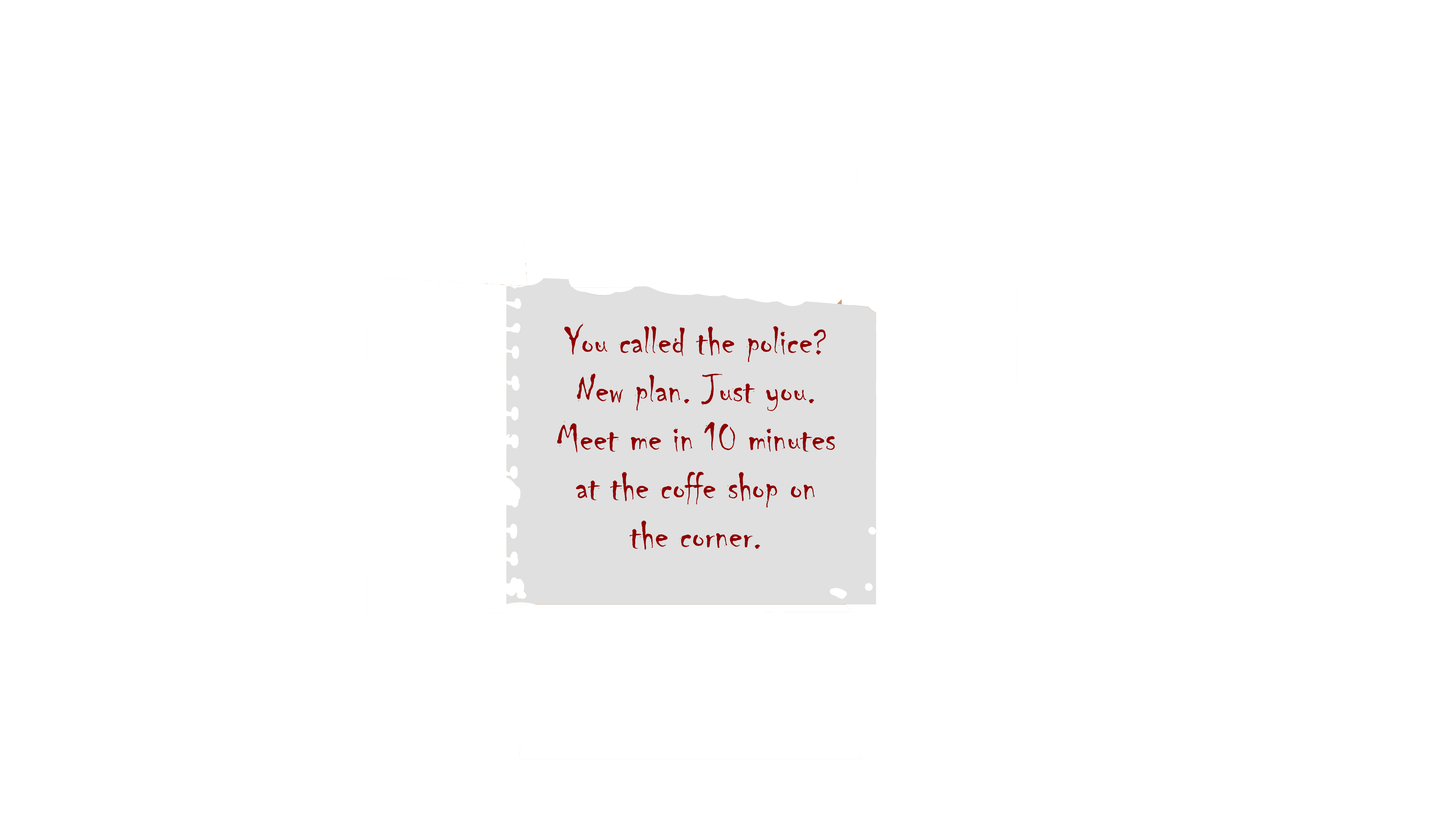
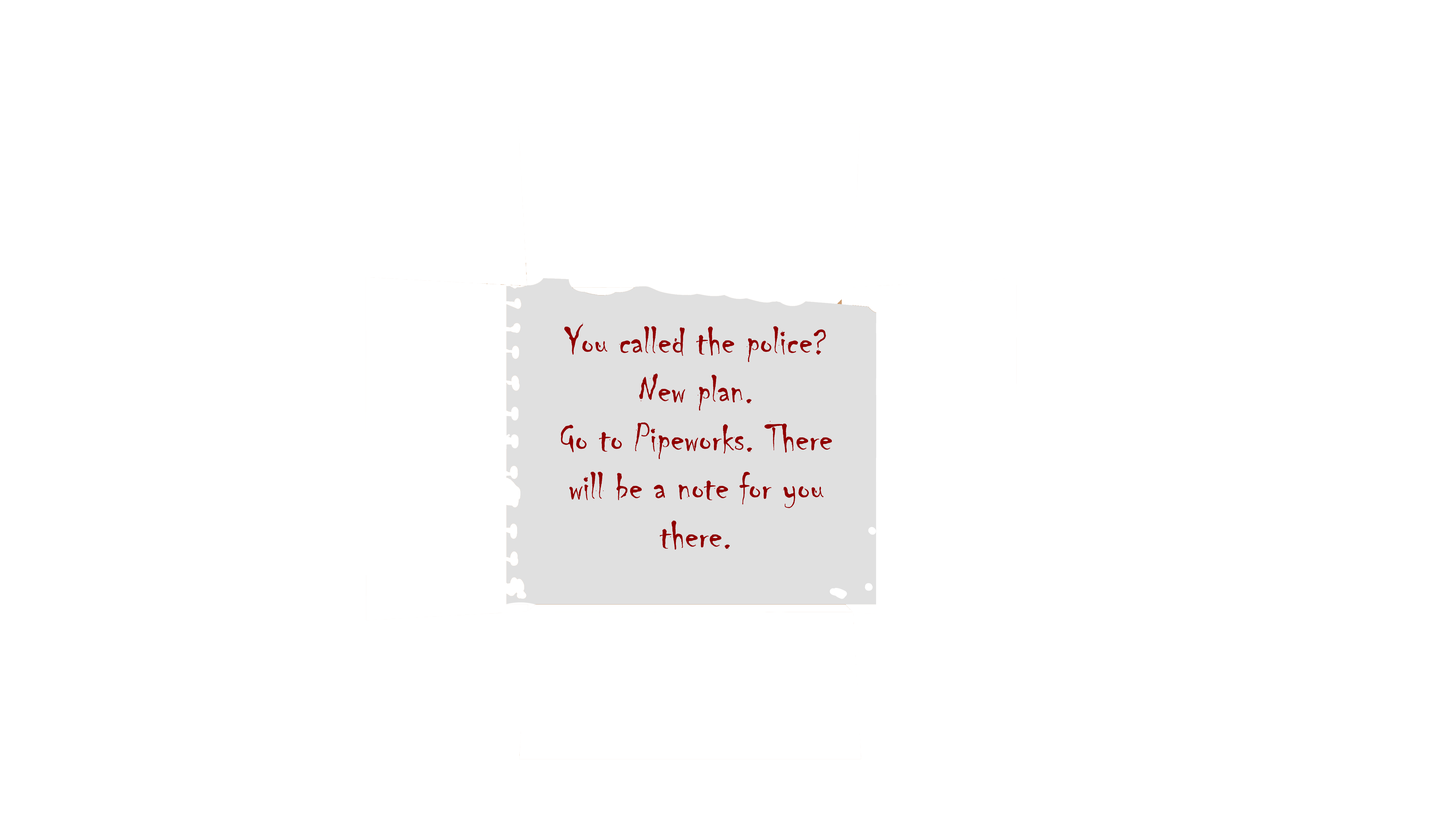
Pipeworks

Changed region(s): [[0.3734, 0.4688, 0.5911, 0.6875]]

diff --git a/portfolio.js b/portfolio.js
@@ -1,1 +1,1 @@
-var storyContent = {"inkVersion":20,"root":[["ev",0,"/ev",{"temp=":"closeDoors"},"ev",false,"/ev",{"temp=":"lookedRight"},"ev",false,"/ev",{"temp=":"noteRead"},"ev",false,"/ev",{"temp=":"calledCops"},"ev",0,"/ev",{"temp=":"collectedNotes"},"ev",false,"/ev",{"temp=":"yelled"},"ev",false,"/ev",{"temp=":"chased"},"ev",false,"/ev",{"temp=":"beginConvo"},"^Would you like to play a game?","\n","ev","str","^Yes","/str","/ev",{"*":"0.c-0","flg":20},["ev",{"^->":"0.40.$r1"},{"temp=":"$r"},"str",{"->":".^.s"},[{"#n":"$r1"}],"/str","/ev",{"*":"0.c-1","flg":18},{"s":["^<a href=\"/ResumeCurrent.html\">No</a>",{"->":"$r","var":true},null]}],{"c-0":[{"->":"BeginGame"},"\n",{"->":"0.g-0"},{"#f":5}],"c-1":["ev",{"^->":"0.c-1.$r2"},"/ev",{"temp=":"$r"},{"->":"0.40.s"},[{"#n":"$r2"}],"\n","done",{"->":"0.g-0"},{"#f":5}],"g-0":["done",{"#f":5}]}],"done",{"BeginGame":[[{"#":"CLEAR"},{"#":"IMAGE: Images/Door.png"},"^Knock Knock Knock....","\n","ev",{"VAR?":"closeDoors"},2,"<","/ev",[{"->":".^.b","c":true},{"b":["\n","ev","str","^Open Door","/str","/ev",{"*":".^.c-0","flg":4},{"->":".^.^.^.10"},{"c-0":["^ ",{"->":"OpenDoor"},"\n",{"#f":5}]}]}],"nop","\n","ev",{"VAR?":"closeDoors"},1,">","/ev",[{"->":".^.b","c":true},{"b":["\n","ev","str","^Open Door","/str","/ev",{"*":".^.c-0","flg":4},"ev","str","^Call police","/str","/ev",{"*":".^.c-1","flg":4},{"->":".^.^.^.18"},{"c-0":["^ ",{"->":"OpenDoor"},"\n",{"#f":5}],"c-1":[{"->":"CallPolice"},"\n",{"#f":5}]}]}],"nop","\n","ev","str","^<a href=\"/ResumeCurrent.html\">Nevermind, I don't want to play</a>","/str","/ev",{"*":".^.c-0","flg":4},{"c-0":["\n","done",{"#f":5}]}],{"#f":1}],"OpenDoor":[[{"#":"CLEAR"},{"#":"IMAGE: Images/OpenDoor.png"},"^What could that be?","\n","ev","str","^Pick up the box","/str","/ev",{"*":".^.c-0","flg":20},"ev","str","^Close the door","/str","/ev",{"*":".^.c-1","flg":20},"ev","str","^Peek outside to see who left it","/str","/ev",{"*":".^.c-2","flg":20},{"c-0":[{"->":"PickUpBox"},"\n",{"#f":5}],"c-1":[{"->":"CloseDoorAgain"},"\n",{"#f":5}],"c-2":[{"->":"PeekOutside"},"\n",{"#f":5}]}],{"#f":1}],"PickUpBox":[[{"#":"CLEAR"},{"#":"IMAGE: Images/openbox.png"},"^What a big box for such a small note...","\n","ev","str","^Read note","/str","/ev",{"*":".^.c-0","flg":20},"ev","str","^Put box down and go back inside","/str","/ev",{"*":".^.c-1","flg":20},{"c-0":[{"->":"ReadNote"},"\n",{"#f":5}],"c-1":[{"->":"Inside"},"\n",{"#f":5}]}],{"#f":1}],"CloseDoorAgain":[[{"#":"CLEAR"},{"#":"IMAGE: Images/CloseDoor.gif"},"ev",{"VAR?":"closeDoors"},1,"+",{"VAR=":"closeDoors","re":true},"/ev","^Not today...","\n","ev","str","^Go back inside","/str","/ev",{"*":".^.c-0","flg":20},"ev","str","^Call police to report suspicious package","/str","/ev",{"*":".^.c-1","flg":4},{"c-0":[{"->":"BeginGame"},"\n",{"#f":5}],"c-1":[{"->":"CallPolice"},"\n","done",{"#f":5}]}],{"#f":1}],"PeekOutside":[[{"#":"CLEAR"},{"#":"IMAGE: Images/OpenDoor.png"},"ev","str","^Look left","/str","/ev",{"*":".^.c-0","flg":20},"ev","str","^Look right","/str","/ev",{"*":".^.c-1","flg":20},{"c-0":[{"->":"Left"},"\n",{"#f":5}],"c-1":[{"->":"Right"},"\n",{"#f":5}]}],{"#f":1}],"ReadNote":[[{"#":"CLEAR"},"ev",{"VAR?":"collectedNotes"},0,"==",{"VAR?":"noteRead"},false,"==","&&","/ev",[{"->":".^.b","c":true},{"b":["\n",{"#":"IMAGE: Images/Note.png"},"^Creepy.","\n","ev",{"VAR?":"collectedNotes"},1,"+",{"VAR=":"collectedNotes","re":true},"/ev","ev","str","^Go back inside","/str","/ev",{"*":".^.c-0","flg":20},{"->":".^.^.^.11"},{"c-0":["\n","ev",true,"/ev",{"VAR=":"noteRead","re":true},{"->":"Inside"},{"#f":5}]}]}],"nop","\n","ev",{"VAR?":"collectedNotes"},1,"==",{"VAR?":"noteRead"},true,"==","&&","/ev",[{"->":".^.b","c":true},{"b":["\n",{"#":"IMAGE: Images/NoteAfterCops.png"},"^Great. Another place to go.","\n","ev","str","^Head to location","/str","/ev",{"*":".^.c-0","flg":20},{"->":".^.^.^.23"},{"c-0":[{"->":"GoToNewLocation"},"\n",{"#f":5}]}]}],"nop","\n","ev","str","^<a href=\"/ResumeCurrent.html\">Nevermind, I don't want to play</a>","/str","/ev",{"*":".^.c-0","flg":4},{"c-0":["\n","done",{"#f":5}]}],{"#f":1}],"Left":[[{"#":"CLEAR"},{"#":"IMAGE: Images/LeftLookFirst.gif"},"ev","str","^Look Right","/str","/ev",{"*":".^.c-0","flg":20},"ev","str","^Pick up package","/str","/ev",{"*":".^.c-1","flg":20},"ev","str","^Go inside and close the door","/str","/ev",{"*":".^.c-2","flg":20},{"c-0":[{"->":"Right"},"\n",{"#f":5}],"c-1":[{"->":"PickUpBox"},"\n",{"#f":5}],"c-2":[{"->":"Inside"},"\n",{"#f":5}]}],{"#f":1}],"Right":[[{"#":"CLEAR"},{"#":"IMAGE: Images/RightLookFirst.gif"},"^Who's that?","\n","ev","str","^Chase suspicious person","/str","/ev",{"*":".^.c-0","flg":20},"ev","str","^Pick up package","/str","/ev",{"*":".^.c-1","flg":20},"ev","str","^Go back inside","/str","/ev",{"*":".^.c-2","flg":20},{"c-0":[{"->":"Stairwell"},"\n",{"#f":5}],"c-1":[{"->":"PickUpBox"},"\n",{"#f":5}],"c-2":[{"->":"Inside"},"\n",{"#f":5}]}],{"#f":1}],"CallPolice":[[{"#":"CLEAR"},{"#":"IMAGE: Images/callpolice.png"},"^Hello, I'd like to report a suspicious package...","\n","ev",{"VAR?":"lookedRight"},true,"==","/ev",[{"->":".^.b","c":true},{"b":["\n","ev","str","^Describe suspicious person","/str","/ev",{"*":".^.c-0","flg":20},{"->":".^.^.^.10"},{"c-0":["^ ",{"->":"PoliceVisit"},"\n",{"#f":5}]}]}],"nop","\n","ev",{"VAR?":"lookedRight"},false,"==","/ev",[{"->":".^.b","c":true},{"b":["\n","ev","str","^Report suspicious package","/str","/ev",{"*":".^.c-0","flg":20},{"->":".^.^.^.18"},{"c-0":[{"->":"PoliceVisit"},"\n",{"#f":5}]}]}],"nop","\n","ev","str","^Nevermind. Open package","/str","/ev",{"*":".^.c-0","flg":4},{"c-0":["^ ",{"->":"PickUpBox"},"\n",{"#f":5}]}],{"#f":1}],"Inside":[{"#":"CLEAR"},{"#":"IMAGE: Images/LivingRoom.png"},"ev",{"VAR?":"noteRead"},false,"==","/ev",[{"->":".^.b","c":true},{"b":["\n","ev","str","^Call police","/str","/ev",{"*":".^.c-0","flg":4},"ev","str","^Nevermind. Open package","/str","/ev",{"*":".^.c-1","flg":4},"ev","str","^ <a href=\"/ResumeCurrent.html\">I don't want to play this game</a>","/str","/ev",{"*":".^.c-2","flg":20},{"->":"Inside.8"},{"c-0":[{"->":"CallPolice"},"\n",{"#f":5}],"c-1":["^ ",{"->":"PickUpBox"},"\n",{"#f":5}],"c-2":["done","\n",{"#f":5}]}]}],"nop","\n","ev",{"VAR?":"noteRead"},true,"==","/ev",[{"->":".^.b","c":true},{"b":["\n","ev","str","^Call police","/str","/ev",{"*":".^.c-0","flg":4},"ev","str","^Head outside to meet behind the building","/str","/ev",{"*":".^.c-1","flg":20},"ev","str","^ <a href=\"/ResumeCurrent.html\">I don't want to play this game</a>","/str","/ev",{"*":".^.c-2","flg":20},{"->":"Inside.16"},{"c-0":[{"->":"CallPolice"},"\n",{"#f":5}],"c-1":[{"->":"MeetUp"},"\n",{"#f":5}],"c-2":["done","\n",{"#f":5}]}]}],"nop","\n","done",{"#f":1}],"Stairwell":["ev",{"VAR?":"yelled"},false,"==",{"VAR?":"chased"},false,"==","&&","/ev",[{"->":".^.b","c":true},{"b":["\n",{"#":"CLEAR"},{"#":"IMAGE: Images/Stairwell.png"},"ev","str","^Yell \"Hey!\"","/str","/ev",{"*":".^.c-0","flg":20},"ev","str","^Run after suspicious person","/str","/ev",{"*":".^.c-1","flg":20},"ev","str","^Go back inside","/str","/ev",{"*":".^.c-2","flg":20},{"->":".^.^.^.10"},{"c-0":["\n","^The person doesn't turn around and continues to run down the stairs.","\n","ev",true,"/ev",{"VAR=":"yelled","re":true},{"->":".^.^.^.^"},{"#f":5}],"c-1":["\n","^You take off down the stairs, but the person runs faster than you. They run out the door into the alley. The door slams behind them. You'll never catch them.","\n","ev",true,"/ev",{"VAR=":"chased","re":true},{"->":".^.^.^.^"},{"#f":5}],"c-2":[{"->":"Inside"},"\n",{"#f":5}]}]}],"nop","\n","ev",{"VAR?":"yelled"},true,"==",{"VAR?":"chased"},false,"==","&&","/ev",[{"->":".^.b","c":true},{"b":["\n",{"#":"IMAGE: Images/Stairwell2.png"},"ev","str","^Run after suspicious person","/str","/ev",{"*":".^.c-0","flg":20},"ev","str","^Go back inside","/str","/ev",{"*":".^.c-1","flg":20},{"->":".^.^.^.22"},{"c-0":["\n","^You take off down the stairs, but the person runs faster than you. They run out the door into the alley. The door slams behind them. You'll never catch them.","\n","ev",true,"/ev",{"VAR=":"chased","re":true},{"->":".^.^.^.^"},{"#f":5}],"c-1":[{"->":"Inside"},"\n",{"#f":5}]}]}],"nop","\n","ev",{"VAR?":"yelled"},false,"==",{"VAR?":"chased"},true,"==","&&","/ev",[{"->":".^.b","c":true},{"b":["\n",{"#":"IMAGE: Images/Stairwell3.png"},"ev","str","^Yell \"Hey!\"","/str","/ev",{"*":".^.c-0","flg":20},"ev","str","^Go back inside","/str","/ev",{"*":".^.c-1","flg":20},{"->":".^.^.^.34"},{"c-0":["\n","^The person doesn't turn around and continues to run down the stairs.","\n","ev",true,"/ev",{"VAR=":"yelled","re":true},{"->":".^.^.^.^"},{"#f":5}],"c-1":[{"->":"Inside"},"\n",{"#f":5}]}]}],"nop","\n","ev",{"VAR?":"yelled"},true,"==",{"VAR?":"chased"},true,"==","&&","/ev",[{"->":".^.b","c":true},{"b":["\n",{"#":"CLEAR"},{"#":"IMAGE: Images/Stairwell3.png"},"ev","str","^Go back inside","/str","/ev",{"*":".^.c-0","flg":20},{"->":".^.^.^.46"},{"c-0":[{"->":"Inside"},"\n",{"#f":5}]}]}],"nop","\n",{"#f":1}],"PoliceVisit":[{"#":"CLEAR"},{"#":"IMAGE: Images/PoliceVisit.png"},"ev",true,"/ev",{"VAR=":"calledCops","re":true},"ev",{"VAR?":"lookedRight"},"/ev",[{"->":".^.b","c":true},{"b":["\n","ev","str","^Tell the policeman about the suspicious person running towards the stairwell","/str","/ev",{"*":".^.c-0","flg":20},{"->":".^.^.^.10"},{"c-0":["^ ",{"->":"BombSquad"},"\n",{"#f":5}]}]}],"nop","\n","ev",{"VAR?":"lookedRight"},false,"==","/ev",[{"->":".^.b","c":true},{"b":["\n","ev","str","^Discuss the suspicious package","/str","/ev",{"*":".^.c-0","flg":20},{"->":".^.^.^.18"},{"c-0":[{"->":"BombSquad"},"\n",{"#f":5}]}]}],"nop","\n",{"#f":1}],"BombSquad":[[{"#":"CLEAR"},{"#":"IMAGE: Images/BombSquad.png"},"^All clear. The package is safe.","\n","ev","str","^Pick up package","/str","/ev",{"*":".^.c-0","flg":20},"ev","str","^Throw package away","/str","/ev",{"*":".^.c-1","flg":20},{"c-0":[{"->":"PickUpBox"},"\n",{"#f":5}],"c-1":[{"->":"Inside"},"\n","ev",{"VAR?":"closeDoors"},1,"+",{"VAR=":"closeDoors","re":true},"/ev",{"->":"BeginGame"},{"#f":5}]}],{"#f":1}],"MeetUp":[{"#":"CLEAR"},"ev",{"VAR?":"calledCops"},"/ev",[{"->":".^.b","c":true},{"b":["\n",{"#":"IMAGE: Images/Alley.png"},"^There's a note across from the dumpster.","\n","ev","str","^Pick it up","/str","/ev",{"*":".^.c-0","flg":20},"ev","str","^Go back home","/str","/ev",{"*":".^.c-1","flg":20},{"->":"MeetUp.5"},{"c-0":[{"->":"ReadNote"},"\n",{"#f":5}],"c-1":[{"->":"Inside"},"\n",{"#f":5}]}]}],"nop","\n","ev",{"VAR?":"calledCops"},false,"==","/ev",[{"->":".^.b","c":true},{"b":["\n",{"#":"IMAGE: Images/hoodedfigurealley.png"},"^A strange person in a hoodie approaches.","\n","ev","str","^Ask person if they left the package","/str","/ev",{"*":".^.c-0","flg":20},"ev","str","^They look shady. Retreat back home.","/str","/ev",{"*":".^.c-1","flg":20},{"->":"MeetUp.13"},{"c-0":["\n","^Yes. ",{"->":"HoodedConvo"},"\n",{"#f":5}],"c-1":[{"->":"Inside"},"\n",{"#f":5}]}]}],"nop","\n",{"#f":1}],"HoodedConvo":["ev",{"VAR?":"beginConvo"},false,"==","/ev",[{"->":".^.b","c":true},{"b":["\n",{"#":"CLEAR"},{"#":"IMAGE: Images/hoodedfigurealley.png"},"ev","str","^Who are you?","/str","/ev",{"*":".^.c-0","flg":20},"ev","str","^Why?","/str","/ev",{"*":".^.c-1","flg":20},"ev","str","^Can I see your face?","/str","/ev",{"*":".^.c-2","flg":20},{"->":".^.^.^.6"},{"c-0":["\n","^I heard you're looking for somebody...","\n","ev",true,"/ev",{"VAR=":"beginConvo","re":true},{"->":".^.^.^.^"},{"#f":5}],"c-1":["\n","^I heard you're looking for somebody...","\n","ev",true,"/ev",{"VAR=":"beginConvo","re":true},{"->":".^.^.^.^"},{"#f":5}],"c-2":["\n","^I heard you're looking for somebody...","\n","ev",true,"/ev",{"VAR=":"beginConvo","re":true},{"->":".^.^.^.^"},{"#f":5}]}]}],"nop","\n","ev",{"VAR?":"beginConvo"},true,"==","/ev",[{"->":".^.b","c":true},{"b":["\n",{"#":"IMAGE: Images/hoodedfigurealley.png"},"ev","str","^I am","/str","/ev",{"*":".^.c-0","flg":20},"ev","str","^Where did you hear that?","/str","/ev",{"*":".^.c-1","flg":20},{"->":".^.^.^.14"},{"c-0":["\n","^I know who you're looking for, but are you ready for her? That's the real question...","\n",{"->":"HoodedFigureRun"},{"#f":5}],"c-1":["\n","^Doesn't matter. I know you're trying to find her. Lots of people are trying to find her.","\n",{"->":"HoodedFigureRun"},{"#f":5}]}]}],"nop","\n",{"#f":1}],"HoodedFigureRun":[{"#":"CLEAR"},{"#":"IMAGE: Images/smokealley.gif"},"^Wait!","\n","done",{"#f":1}],"GoToNewLocation":[{"#":"CLEAR"},{"#":"IMAGE: Images/BombSquad.png"},"done",{"#f":1}],"global decl":["ev","/ev","end",null],"#f":1}],"listDefs":{}};
+var storyContent = {"inkVersion":20,"root":[["ev",0,"/ev",{"temp=":"closeDoors"},"ev",false,"/ev",{"temp=":"lookedRight"},"ev",false,"/ev",{"temp=":"noteRead"},"ev",false,"/ev",{"temp=":"calledCops"},"ev",0,"/ev",{"temp=":"collectedNotes"},"ev",false,"/ev",{"temp=":"yelled"},"ev",false,"/ev",{"temp=":"chased"},"ev",false,"/ev",{"temp=":"beginConvo"},"^Would you like to play a game?","\n","ev","str","^Yes","/str","/ev",{"*":"0.c-0","flg":20},["ev",{"^->":"0.40.$r1"},{"temp=":"$r"},"str",{"->":".^.s"},[{"#n":"$r1"}],"/str","/ev",{"*":"0.c-1","flg":18},{"s":["^<a href=\"/ResumeCurrent.html\">No</a>",{"->":"$r","var":true},null]}],{"c-0":[{"->":"BeginGame"},"\n",{"->":"0.g-0"},{"#f":5}],"c-1":["ev",{"^->":"0.c-1.$r2"},"/ev",{"temp=":"$r"},{"->":"0.40.s"},[{"#n":"$r2"}],"\n","done",{"->":"0.g-0"},{"#f":5}],"g-0":["done",{"#f":5}]}],"done",{"BeginGame":[[{"#":"CLEAR"},{"#":"IMAGE: Images/Door.png"},"^Knock Knock Knock....","\n","ev",{"VAR?":"closeDoors"},2,"<","/ev",[{"->":".^.b","c":true},{"b":["\n","ev","str","^Open Door","/str","/ev",{"*":".^.c-0","flg":4},{"->":".^.^.^.10"},{"c-0":["^ ",{"->":"OpenDoor"},"\n",{"#f":5}]}]}],"nop","\n","ev",{"VAR?":"closeDoors"},1,">","/ev",[{"->":".^.b","c":true},{"b":["\n","ev","str","^Open Door","/str","/ev",{"*":".^.c-0","flg":4},"ev","str","^Call police","/str","/ev",{"*":".^.c-1","flg":4},{"->":".^.^.^.18"},{"c-0":["^ ",{"->":"OpenDoor"},"\n",{"#f":5}],"c-1":[{"->":"CallPolice"},"\n",{"#f":5}]}]}],"nop","\n","ev","str","^<a href=\"/ResumeCurrent.html\">Nevermind, I don't want to play</a>","/str","/ev",{"*":".^.c-0","flg":4},{"c-0":["\n","done",{"#f":5}]}],{"#f":1}],"OpenDoor":[[{"#":"CLEAR"},{"#":"IMAGE: Images/OpenDoor.png"},"^What could that be?","\n","ev","str","^Pick up the box","/str","/ev",{"*":".^.c-0","flg":20},"ev","str","^Close the door","/str","/ev",{"*":".^.c-1","flg":20},"ev","str","^Peek outside to see who left it","/str","/ev",{"*":".^.c-2","flg":20},{"c-0":[{"->":"PickUpBox"},"\n",{"#f":5}],"c-1":[{"->":"CloseDoorAgain"},"\n",{"#f":5}],"c-2":[{"->":"PeekOutside"},"\n",{"#f":5}]}],{"#f":1}],"PickUpBox":[[{"#":"CLEAR"},{"#":"IMAGE: Images/openbox.png"},"^What a big box for such a small note...","\n","ev","str","^Read note","/str","/ev",{"*":".^.c-0","flg":20},"ev","str","^Put box down and go back inside","/str","/ev",{"*":".^.c-1","flg":20},{"c-0":[{"->":"ReadNote"},"\n",{"#f":5}],"c-1":[{"->":"Inside"},"\n",{"#f":5}]}],{"#f":1}],"CloseDoorAgain":[[{"#":"CLEAR"},{"#":"IMAGE: Images/CloseDoor.gif"},"ev",{"VAR?":"closeDoors"},1,"+",{"VAR=":"closeDoors","re":true},"/ev","^Not today...","\n","ev","str","^Go back inside","/str","/ev",{"*":".^.c-0","flg":20},"ev","str","^Call police to report suspicious package","/str","/ev",{"*":".^.c-1","flg":4},{"c-0":[{"->":"BeginGame"},"\n",{"#f":5}],"c-1":[{"->":"CallPolice"},"\n","done",{"#f":5}]}],{"#f":1}],"PeekOutside":[[{"#":"CLEAR"},{"#":"IMAGE: Images/OpenDoor.png"},"ev","str","^Look left","/str","/ev",{"*":".^.c-0","flg":20},"ev","str","^Look right","/str","/ev",{"*":".^.c-1","flg":20},{"c-0":[{"->":"Left"},"\n",{"#f":5}],"c-1":[{"->":"Right"},"\n",{"#f":5}]}],{"#f":1}],"ReadNote":[[{"#":"CLEAR"},"ev",{"VAR?":"collectedNotes"},0,"==",{"VAR?":"noteRead"},false,"==","&&","/ev",[{"->":".^.b","c":true},{"b":["\n",{"#":"IMAGE: Images/Note.png"},"^Creepy.","\n","ev",{"VAR?":"collectedNotes"},1,"+",{"VAR=":"collectedNotes","re":true},"/ev","ev","str","^Go back inside","/str","/ev",{"*":".^.c-0","flg":20},{"->":".^.^.^.11"},{"c-0":["\n","ev",true,"/ev",{"VAR=":"noteRead","re":true},{"->":"Inside"},{"#f":5}]}]}],"nop","\n","ev",{"VAR?":"collectedNotes"},1,"==",{"VAR?":"noteRead"},true,"==","&&","/ev",[{"->":".^.b","c":true},{"b":["\n",{"#":"IMAGE: Images/NoteAfterCops.png"},"^Great. Another place to go.","\n","ev","str","^Head to location","/str","/ev",{"*":".^.c-0","flg":20},{"->":".^.^.^.23"},{"c-0":[{"->":"GoToPipeworks"},"\n",{"#f":5}]}]}],"nop","\n","ev","str","^<a href=\"/ResumeCurrent.html\">Nevermind, I don't want to play</a>","/str","/ev",{"*":".^.c-0","flg":4},{"c-0":["\n","done",{"#f":5}]}],{"#f":1}],"Left":[[{"#":"CLEAR"},{"#":"IMAGE: Images/LeftLookFirst.gif"},"ev","str","^Look Right","/str","/ev",{"*":".^.c-0","flg":20},"ev","str","^Pick up package","/str","/ev",{"*":".^.c-1","flg":20},"ev","str","^Go inside and close the door","/str","/ev",{"*":".^.c-2","flg":20},{"c-0":[{"->":"Right"},"\n",{"#f":5}],"c-1":[{"->":"PickUpBox"},"\n",{"#f":5}],"c-2":[{"->":"Inside"},"\n",{"#f":5}]}],{"#f":1}],"Right":[[{"#":"CLEAR"},{"#":"IMAGE: Images/RightLookFirst.gif"},"^Who's that?","\n","ev",true,"/ev",{"VAR=":"lookedRight","re":true},"ev","str","^Chase suspicious person","/str","/ev",{"*":".^.c-0","flg":20},"ev","str","^Pick up package","/str","/ev",{"*":".^.c-1","flg":20},"ev","str","^Go back inside","/str","/ev",{"*":".^.c-2","flg":20},{"c-0":[{"->":"Stairwell"},"\n",{"#f":5}],"c-1":[{"->":"PickUpBox"},"\n",{"#f":5}],"c-2":[{"->":"Inside"},"\n",{"#f":5}]}],{"#f":1}],"CallPolice":[{"#":"CLEAR"},{"#":"IMAGE: Images/callpolice.png"},"ev",{"VAR?":"noteRead"},false,"==","/ev",[{"->":".^.b","c":true},{"b":["\n","ev",{"VAR?":"lookedRight"},true,"==","/ev",[{"->":".^.b","c":true},{"b":["\n","ev","str","^Describe suspicious person","/str","/ev",{"*":".^.c-0","flg":20},"ev","str","^Report suspicious package","/str","/ev",{"*":".^.c-1","flg":20},"ev","str","^Nevermind. Open package","/str","/ev",{"*":".^.c-2","flg":4},{"->":".^.^.^.7"},{"c-0":["^ ",{"->":"PoliceVisit"},"\n",{"#f":5}],"c-1":[{"->":"PoliceVisit"},"\n",{"#f":5}],"c-2":["^ ",{"->":"PickUpBox"},"\n",{"#f":5}]}]}],"nop","\n","ev",{"VAR?":"lookedRight"},false,"==","/ev",[{"->":".^.b","c":true},{"b":["\n","ev","str","^Report suspicious package","/str","/ev",{"*":".^.c-0","flg":20},"ev","str","^Nevermind. Open package","/str","/ev",{"*":".^.c-1","flg":4},{"->":".^.^.^.15"},{"c-0":[{"->":"PoliceVisit"},"\n",{"#f":5}],"c-1":["^ ",{"->":"PickUpBox"},"\n",{"#f":5}]}]}],"nop","\n",{"->":".^.^.^.8"},null]}],"nop","\n","ev",{"VAR?":"noteRead"},true,"==","/ev",[{"->":".^.b","c":true},{"b":["\n","ev",{"VAR?":"lookedRight"},true,"==","/ev",[{"->":".^.b","c":true},{"b":["\n","ev","str","^Describe suspicious person","/str","/ev",{"*":".^.c-0","flg":20},"ev","str","^Report suspicious package","/str","/ev",{"*":".^.c-1","flg":20},{"->":".^.^.^.7"},{"c-0":["^ ",{"->":"PoliceVisit"},"\n",{"#f":5}],"c-1":[{"->":"PoliceVisit"},"\n",{"#f":5}]}]}],"nop","\n","ev",{"VAR?":"lookedRight"},false,"==","/ev",[{"->":".^.b","c":true},{"b":["\n","ev","str","^Report suspicious package","/str","/ev",{"*":".^.c-0","flg":20},{"->":".^.^.^.15"},{"c-0":[{"->":"PoliceVisit"},"\n",{"#f":5}]}]}],"nop","\n",{"->":".^.^.^.16"},null]}],"nop","\n",{"#f":1}],"Inside":[{"#":"CLEAR"},{"#":"IMAGE: Images/LivingRoom.png"},"ev",{"VAR?":"noteRead"},false,"==","/ev",[{"->":".^.b","c":true},{"b":["\n","ev","str","^Call police","/str","/ev",{"*":".^.c-0","flg":4},"ev","str","^Nevermind. Open package","/str","/ev",{"*":".^.c-1","flg":4},"ev","str","^ <a href=\"/ResumeCurrent.html\">I don't want to play this game</a>","/str","/ev",{"*":".^.c-2","flg":20},{"->":"Inside.8"},{"c-0":[{"->":"CallPolice"},"\n",{"#f":5}],"c-1":["^ ",{"->":"PickUpBox"},"\n",{"#f":5}],"c-2":["done","\n",{"#f":5}]}]}],"nop","\n","ev",{"VAR?":"noteRead"},true,"==","/ev",[{"->":".^.b","c":true},{"b":["\n","ev","str","^Call police","/str","/ev",{"*":".^.c-0","flg":4},"ev","str","^Head outside to meet behind the building","/str","/ev",{"*":".^.c-1","flg":20},"ev","str","^ <a href=\"/ResumeCurrent.html\">I don't want to play this game</a>","/str","/ev",{"*":".^.c-2","flg":20},{"->":"Inside.16"},{"c-0":[{"->":"CallPolice"},"\n",{"#f":5}],"c-1":[{"->":"MeetUp"},"\n",{"#f":5}],"c-2":["done","\n",{"#f":5}]}]}],"nop","\n","done",{"#f":1}],"Stairwell":["ev",{"VAR?":"yelled"},false,"==",{"VAR?":"chased"},false,"==","&&","/ev",[{"->":".^.b","c":true},{"b":["\n",{"#":"CLEAR"},{"#":"IMAGE: Images/Stairwell.png"},"ev","str","^Yell \"Hey!\"","/str","/ev",{"*":".^.c-0","flg":20},"ev","str","^Run after suspicious person","/str","/ev",{"*":".^.c-1","flg":20},"ev","str","^Go back inside","/str","/ev",{"*":".^.c-2","flg":20},{"->":".^.^.^.10"},{"c-0":["\n","^The person doesn't turn around and continues to run down the stairs.","\n","ev",true,"/ev",{"VAR=":"yelled","re":true},{"->":".^.^.^.^"},{"#f":5}],"c-1":["\n","^You take off down the stairs, but the person runs faster than you. They run out the door into the alley. The door slams behind them. You'll never catch them.","\n","ev",true,"/ev",{"VAR=":"chased","re":true},{"->":".^.^.^.^"},{"#f":5}],"c-2":[{"->":"Inside"},"\n",{"#f":5}]}]}],"nop","\n","ev",{"VAR?":"yelled"},true,"==",{"VAR?":"chased"},false,"==","&&","/ev",[{"->":".^.b","c":true},{"b":["\n",{"#":"IMAGE: Images/Stairwell2.png"},"ev","str","^Run after suspicious person","/str","/ev",{"*":".^.c-0","flg":20},"ev","str","^Go back inside","/str","/ev",{"*":".^.c-1","flg":20},{"->":".^.^.^.22"},{"c-0":["\n","^You take off down the stairs, but the person runs faster than you.","\n","ev",true,"/ev",{"VAR=":"chased","re":true},{"->":".^.^.^.^"},{"#f":5}],"c-1":[{"->":"Inside"},"\n",{"#f":5}]}]}],"nop","\n","ev",{"VAR?":"yelled"},false,"==",{"VAR?":"chased"},true,"==","&&","/ev",[{"->":".^.b","c":true},{"b":["\n",{"#":"IMAGE: Images/Stairwell3.png"},"ev","str","^Yell \"Hey!\"","/str","/ev",{"*":".^.c-0","flg":20},"ev","str","^Go back inside","/str","/ev",{"*":".^.c-1","flg":20},{"->":".^.^.^.34"},{"c-0":["\n","^The person doesn't turn around and continues to run down the stairs.","\n","ev",true,"/ev",{"VAR=":"yelled","re":true},{"->":".^.^.^.^"},{"#f":5}],"c-1":[{"->":"Inside"},"\n",{"#f":5}]}]}],"nop","\n","ev",{"VAR?":"yelled"},true,"==",{"VAR?":"chased"},true,"==","&&","/ev",[{"->":".^.b","c":true},{"b":["\n",{"#":"CLEAR"},{"#":"IMAGE: Images/Stairwell3.png"},"^They run out the door into the alley. The door slams behind them. You'll never catch them.","\n","ev","str","^Go back inside","/str","/ev",{"*":".^.c-0","flg":20},{"->":".^.^.^.46"},{"c-0":[{"->":"Inside"},"\n",{"#f":5}]}]}],"nop","\n",{"#f":1}],"PoliceVisit":[{"#":"CLEAR"},{"#":"IMAGE: Images/PoliceVisit.png"},"ev",true,"/ev",{"VAR=":"calledCops","re":true},"ev",{"VAR?":"lookedRight"},"/ev",[{"->":".^.b","c":true},{"b":["\n","ev","str","^Tell the policeman about the suspicious person running towards the stairwell","/str","/ev",{"*":".^.c-0","flg":20},{"->":".^.^.^.10"},{"c-0":["^ ",{"->":"BombSquad"},"\n",{"#f":5}]}]}],"nop","\n","ev",{"VAR?":"lookedRight"},false,"==","/ev",[{"->":".^.b","c":true},{"b":["\n","ev","str","^Discuss the suspicious package","/str","/ev",{"*":".^.c-0","flg":20},{"->":".^.^.^.18"},{"c-0":[{"->":"BombSquad"},"\n",{"#f":5}]}]}],"nop","\n",{"#f":1}],"BombSquad":[[{"#":"CLEAR"},{"#":"IMAGE: Images/BombSquad.png"},"^All clear. The package is safe.","\n","ev","str","^Pick up package","/str","/ev",{"*":".^.c-0","flg":20},"ev","str","^Throw package away","/str","/ev",{"*":".^.c-1","flg":20},{"c-0":[{"->":"PickUpBox"},"\n",{"#f":5}],"c-1":[{"->":"Inside"},"\n","ev",{"VAR?":"closeDoors"},1,"+",{"VAR=":"closeDoors","re":true},"/ev",{"->":"BeginGame"},{"#f":5}]}],{"#f":1}],"MeetUp":[{"#":"CLEAR"},"ev",{"VAR?":"calledCops"},"/ev",[{"->":".^.b","c":true},{"b":["\n",{"#":"IMAGE: Images/Alley.png"},"^There's a note across from the dumpster.","\n","ev","str","^Pick it up","/str","/ev",{"*":".^.c-0","flg":20},"ev","str","^Go back home","/str","/ev",{"*":".^.c-1","flg":20},{"->":"MeetUp.5"},{"c-0":[{"->":"ReadNote"},"\n",{"#f":5}],"c-1":[{"->":"Inside"},"\n",{"#f":5}]}]}],"nop","\n","ev",{"VAR?":"calledCops"},false,"==","/ev",[{"->":".^.b","c":true},{"b":["\n",{"#":"IMAGE: Images/hoodedfigurealley.png"},"^A strange person in a hoodie approaches.","\n","ev","str","^Ask person if they left the package","/str","/ev",{"*":".^.c-0","flg":20},"ev","str","^They look shady. Retreat back home.","/str","/ev",{"*":".^.c-1","flg":20},{"->":"MeetUp.13"},{"c-0":["\n","^Yes. ",{"->":"HoodedConvo"},"\n",{"#f":5}],"c-1":[{"->":"Inside"},"\n",{"#f":5}]}]}],"nop","\n",{"#f":1}],"HoodedConvo":["ev",{"VAR?":"beginConvo"},false,"==","/ev",[{"->":".^.b","c":true},{"b":["\n",{"#":"CLEAR"},{"#":"IMAGE: Images/hoodedfigurealley.png"},"ev","str","^Who are you?","/str","/ev",{"*":".^.c-0","flg":20},"ev","str","^Why?","/str","/ev",{"*":".^.c-1","flg":20},"ev","str","^Can I see your face?","/str","/ev",{"*":".^.c-2","flg":20},{"->":".^.^.^.6"},{"c-0":["\n","^I heard you're looking for somebody...","\n","ev",true,"/ev",{"VAR=":"beginConvo","re":true},{"->":".^.^.^.^"},{"#f":5}],"c-1":["\n","^I heard you're looking for somebody...","\n","ev",true,"/ev",{"VAR=":"beginConvo","re":true},{"->":".^.^.^.^"},{"#f":5}],"c-2":["\n","^I heard you're looking for somebody...","\n","ev",true,"/ev",{"VAR=":"beginConvo","re":true},{"->":".^.^.^.^"},{"#f":5}]}]}],"nop","\n","ev",{"VAR?":"beginConvo"},true,"==","/ev",[{"->":".^.b","c":true},{"b":["\n",{"#":"IMAGE: Images/hoodedfigurealley.png"},"ev","str","^I am","/str","/ev",{"*":".^.c-0","flg":20},"ev","str","^Where did you hear that?","/str","/ev",{"*":".^.c-1","flg":20},{"->":".^.^.^.14"},{"c-0":["\n","^I know who you're looking for, but are you ready for her? That's the real question...","\n",{"->":"HoodedFigureRun"},{"#f":5}],"c-1":["\n","^Doesn't matter. I know you're trying to find her. Lots of people are trying to find her.","\n",{"->":"HoodedFigureRun"},{"#f":5}]}]}],"nop","\n",{"#f":1}],"HoodedFigureRun":[{"#":"CLEAR"},{"#":"IMAGE: Images/smokealley.gif"},"^Wait! ",{"->":"AlleyNote"},"\n",{"#f":1}],"AlleyNote":[[{"#":"CLEAR"},{"#":"IMAGE: Images/AlleyNoteAfterSmoke.png"},"^The smoke clears leaving a note on the ground.You pick it up and read it.","\n","ev","str","^Go to Pipeworks","/str","/ev",{"*":".^.c-0","flg":20},"ev","str","^Go back inside","/str","/ev",{"*":".^.c-1","flg":20},"ev","str","^ <a href=\"/ResumeCurrent.html\">I don't want to play this game</a>","/str","/ev",{"*":".^.c-2","flg":20},{"c-0":[{"->":"GoToPipeworks"},"\n",{"#f":5}],"c-1":[{"->":"Inside"},"\n",{"#f":5}],"c-2":["done","\n","done",{"#f":5}]}],{"#f":1}],"GoToPipeworks":[{"#":"CLEAR"},{"#":"IMAGE: Images/BombSquad.png"},"done",{"#f":1}],"global decl":["ev","/ev","end",null],"#f":1}],"listDefs":{}};

diff --git a/style.css b/style.css
@@ -115,7 +115,6 @@ h2 {
 
 p {
     text-shadow: 1px 1px #333;
-    filter: blur(0.2px);
     font-size: 16pt;
     font-weight: 700;
     color: rgb(203, 185, 218);
